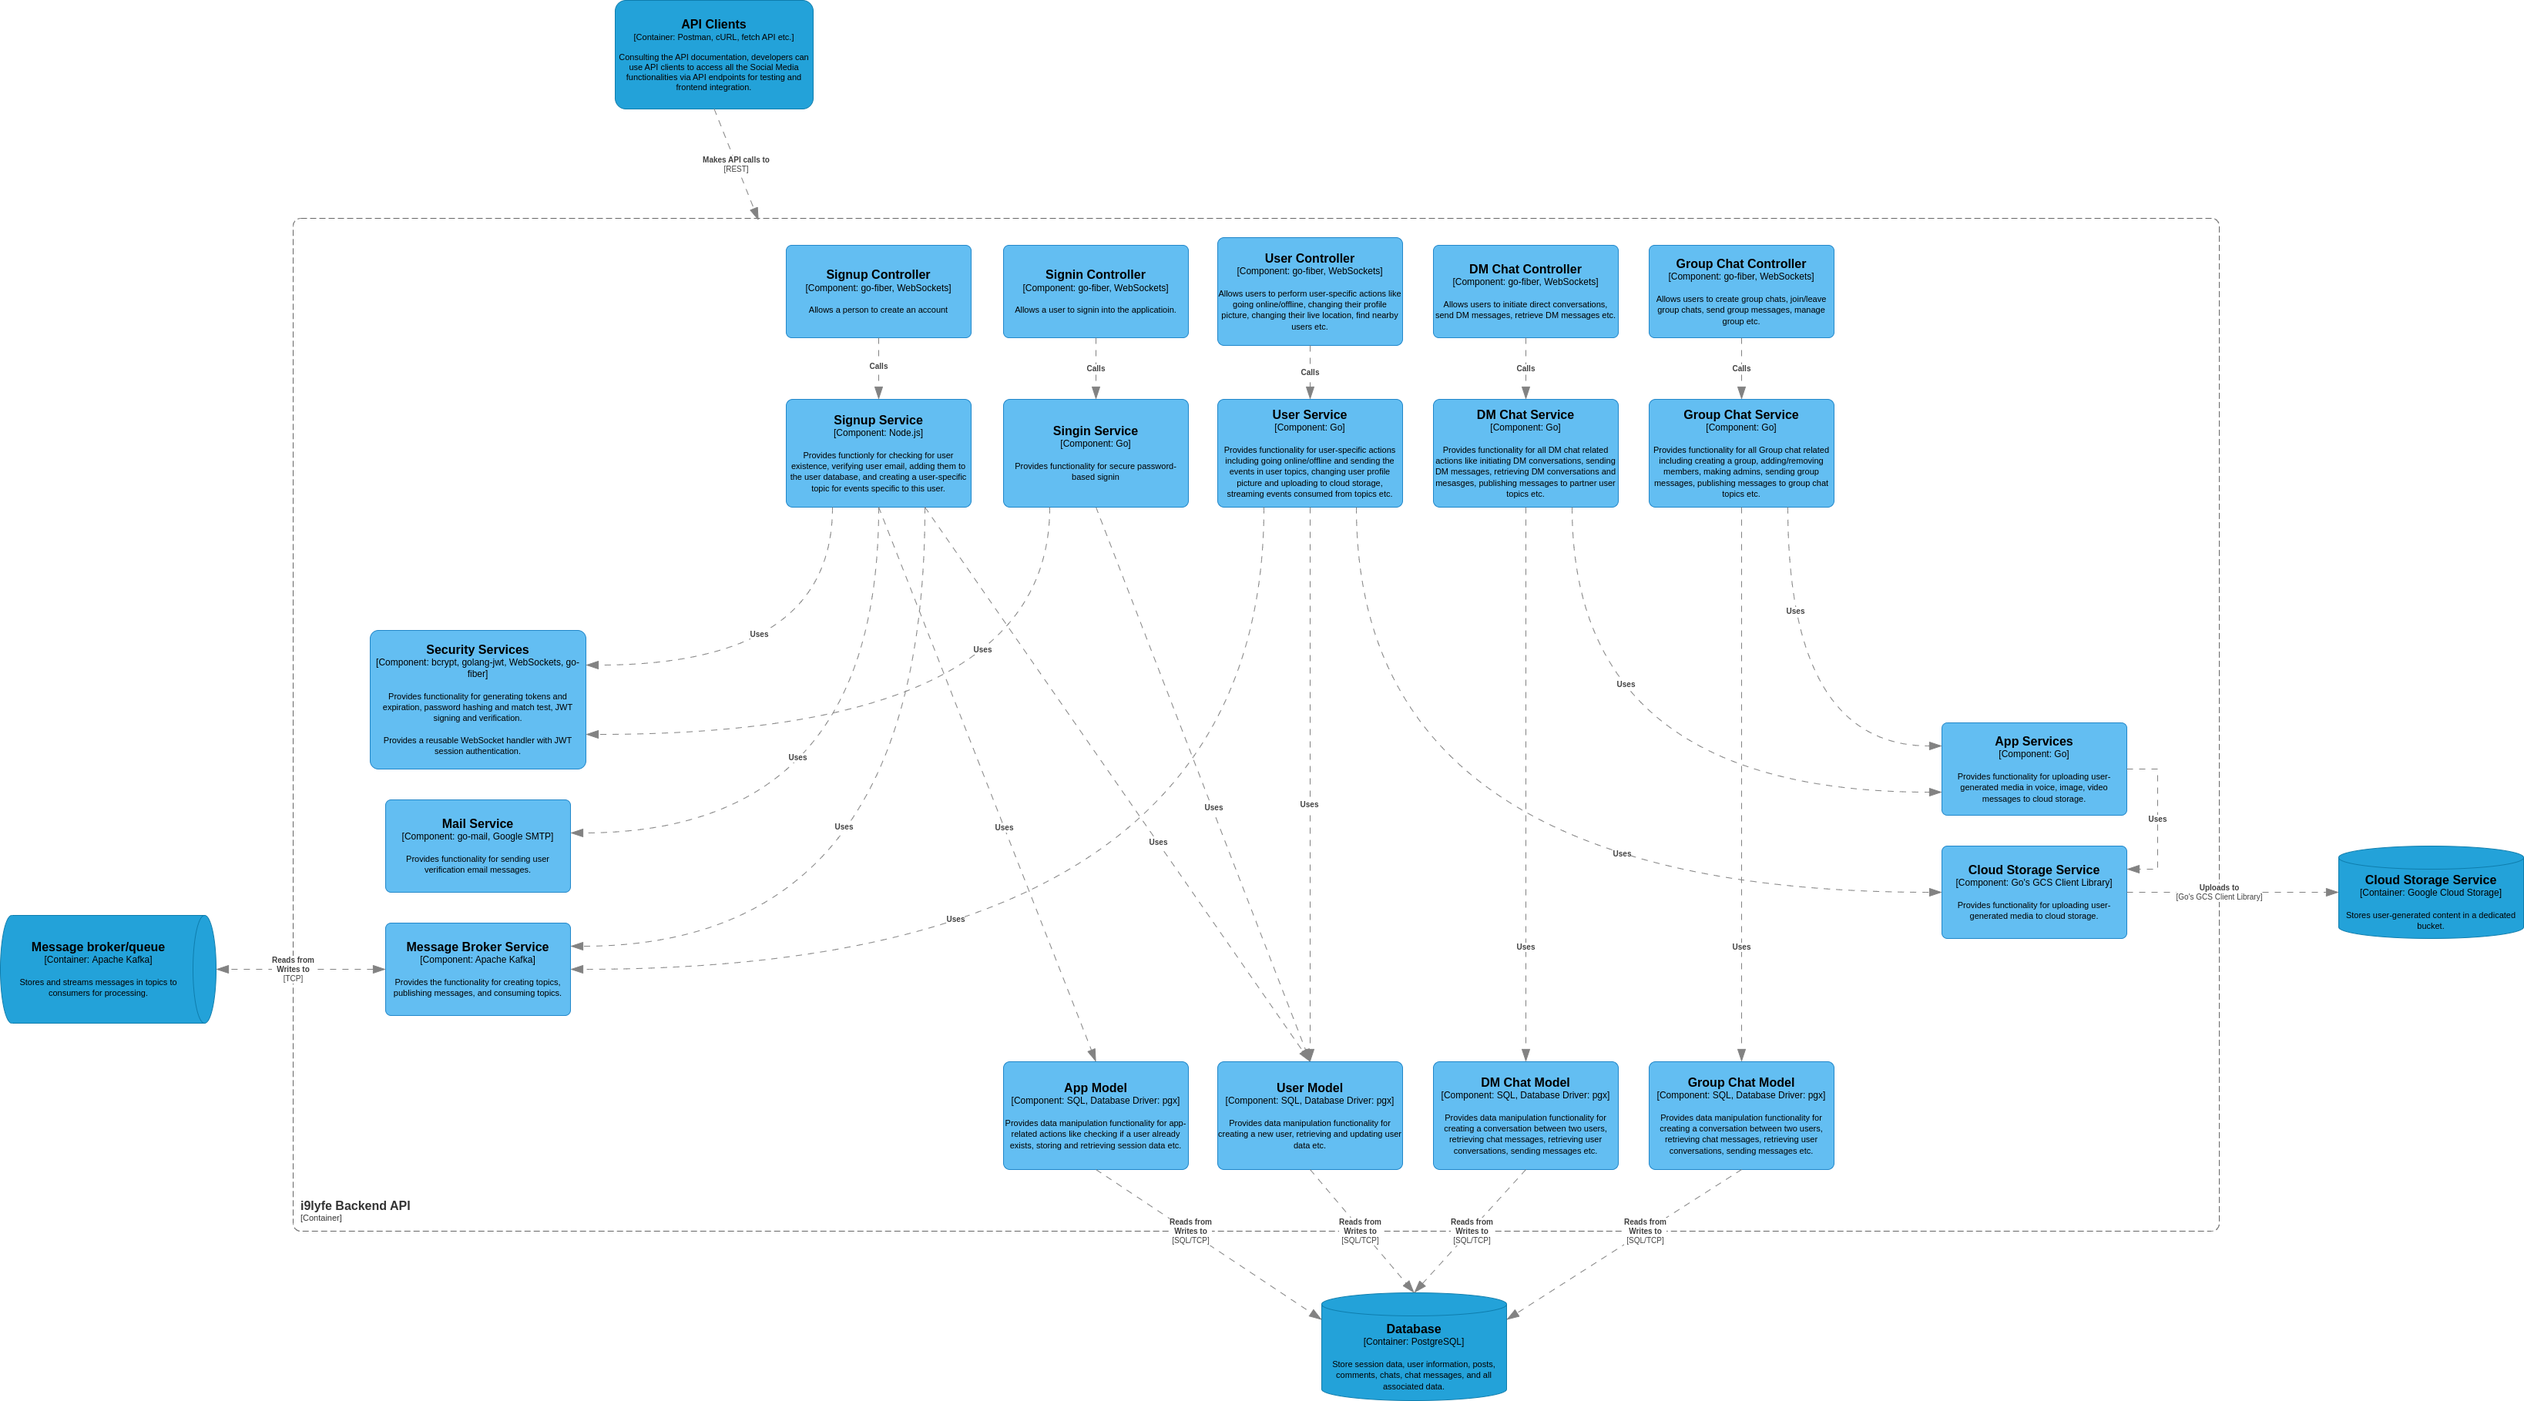
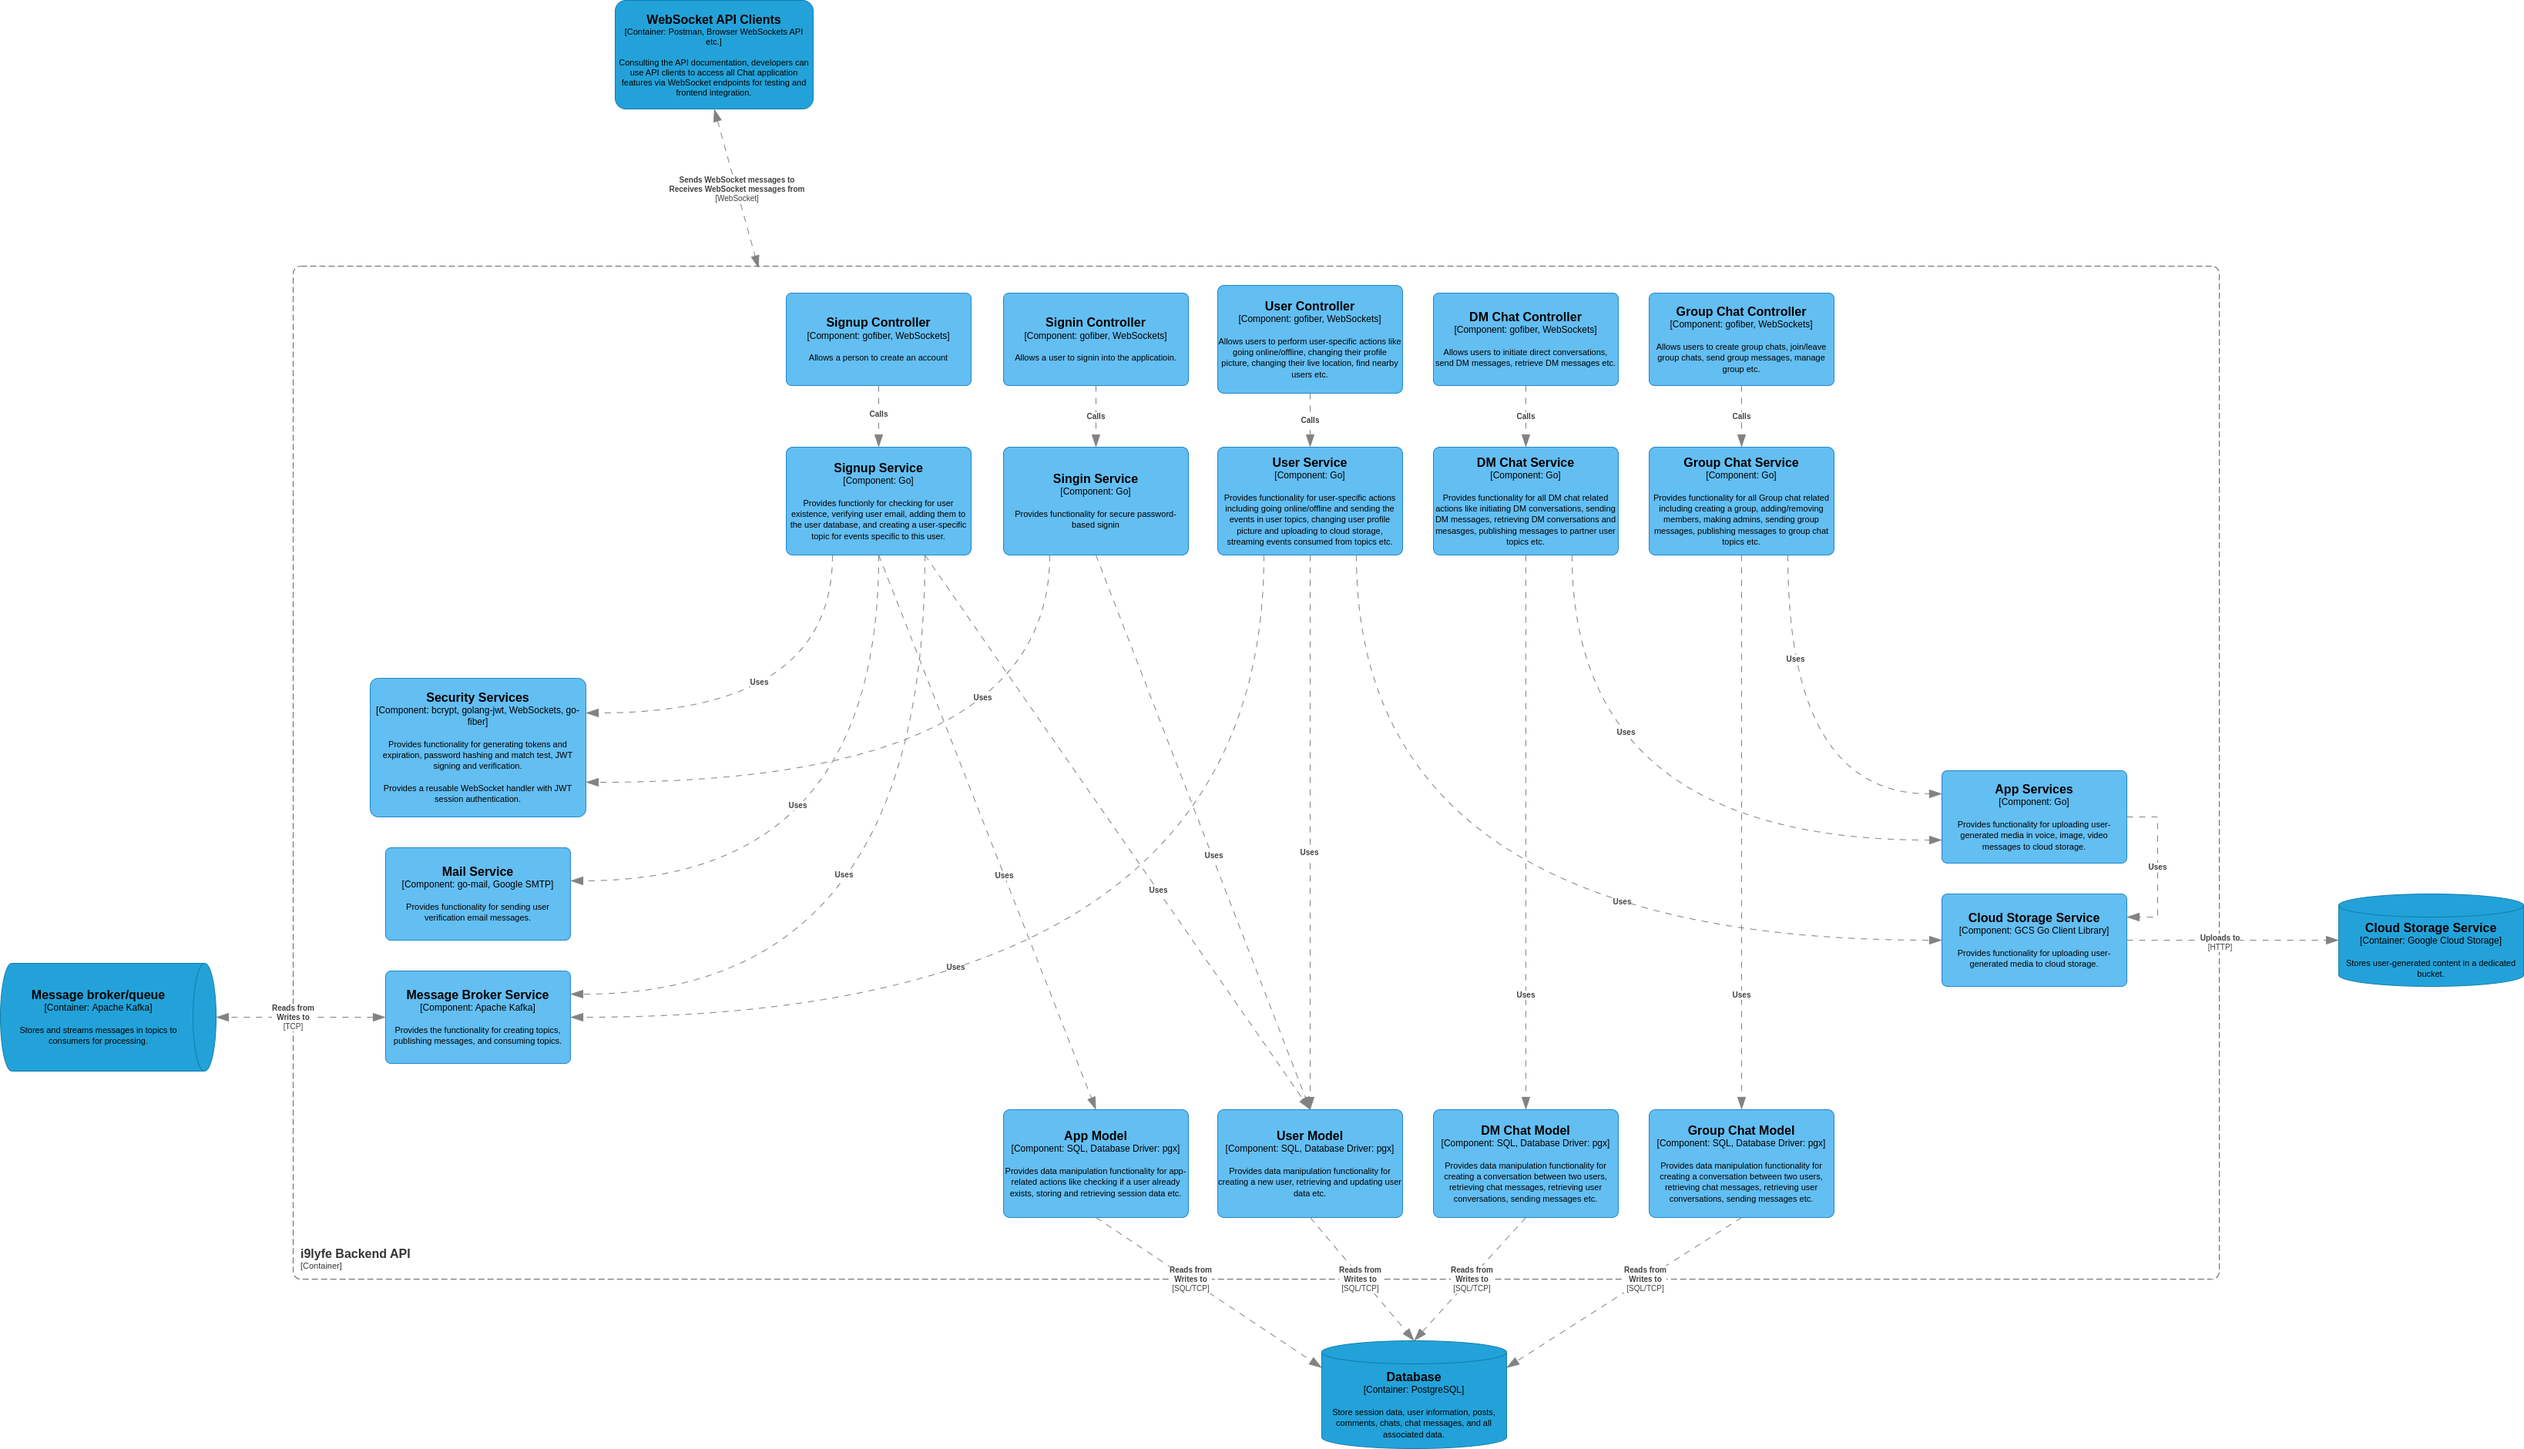
updated

diff --git a/README.md b/README.md
@@ -127,9 +127,9 @@ The business logic is written in a `creatDMChat` service, called by the `createD
 
 ## Usage
 
-Use the provided [API documention](./attachments/API%20doc.md).
+Use the provided [API documention](./API%20doc.md).
 
-> ⚠ Note: The API documentation is not written according to the OpenAPI specification, as it's entirely built with WebSockets and uses WebSocket communication on all endpoints. However, it's well-written enough to follow easily, like most documentations.
+> ⚠ Note: The API documentation does not follow the OpenAPI specification, as it relies entirely on WebSocket communication for all endpoints. However, it is clearly written and easy to follow, similar to most standard documentation.
 
 This API server is currently running remotely on Railway's cloud platform, but I plan to stop it very soon as I'll soon exhuast my trial plan.
 

diff --git a/attachments/sequence_diagrams.md b/attachments/sequence_diagrams.md
@@ -1,0 +1,1 @@
+# i9chat Sequence Diagrams
